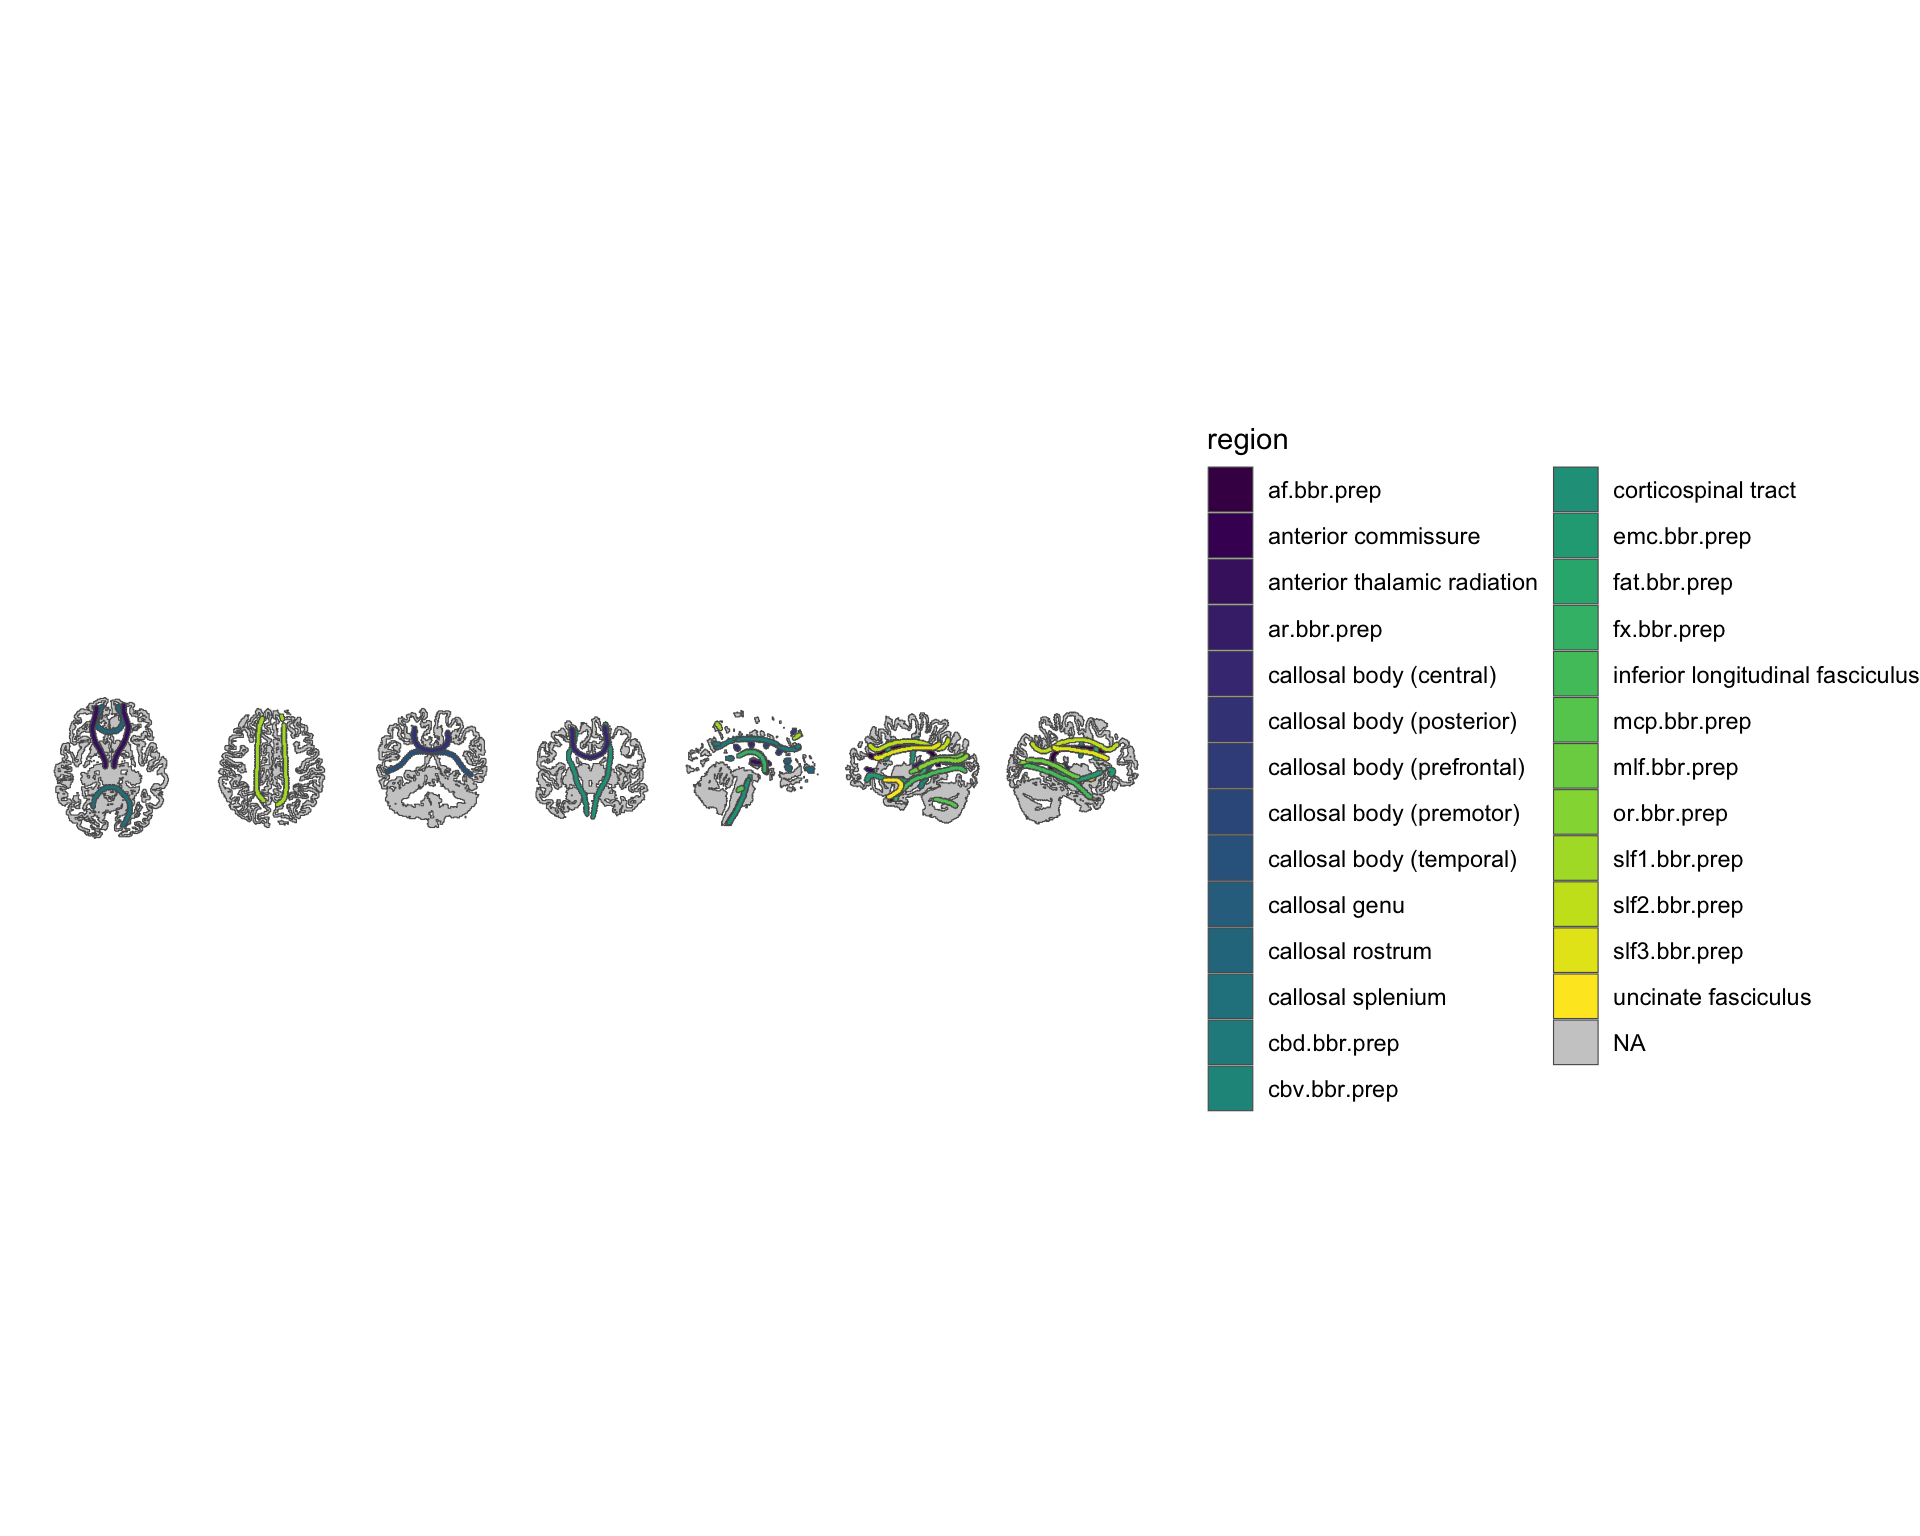
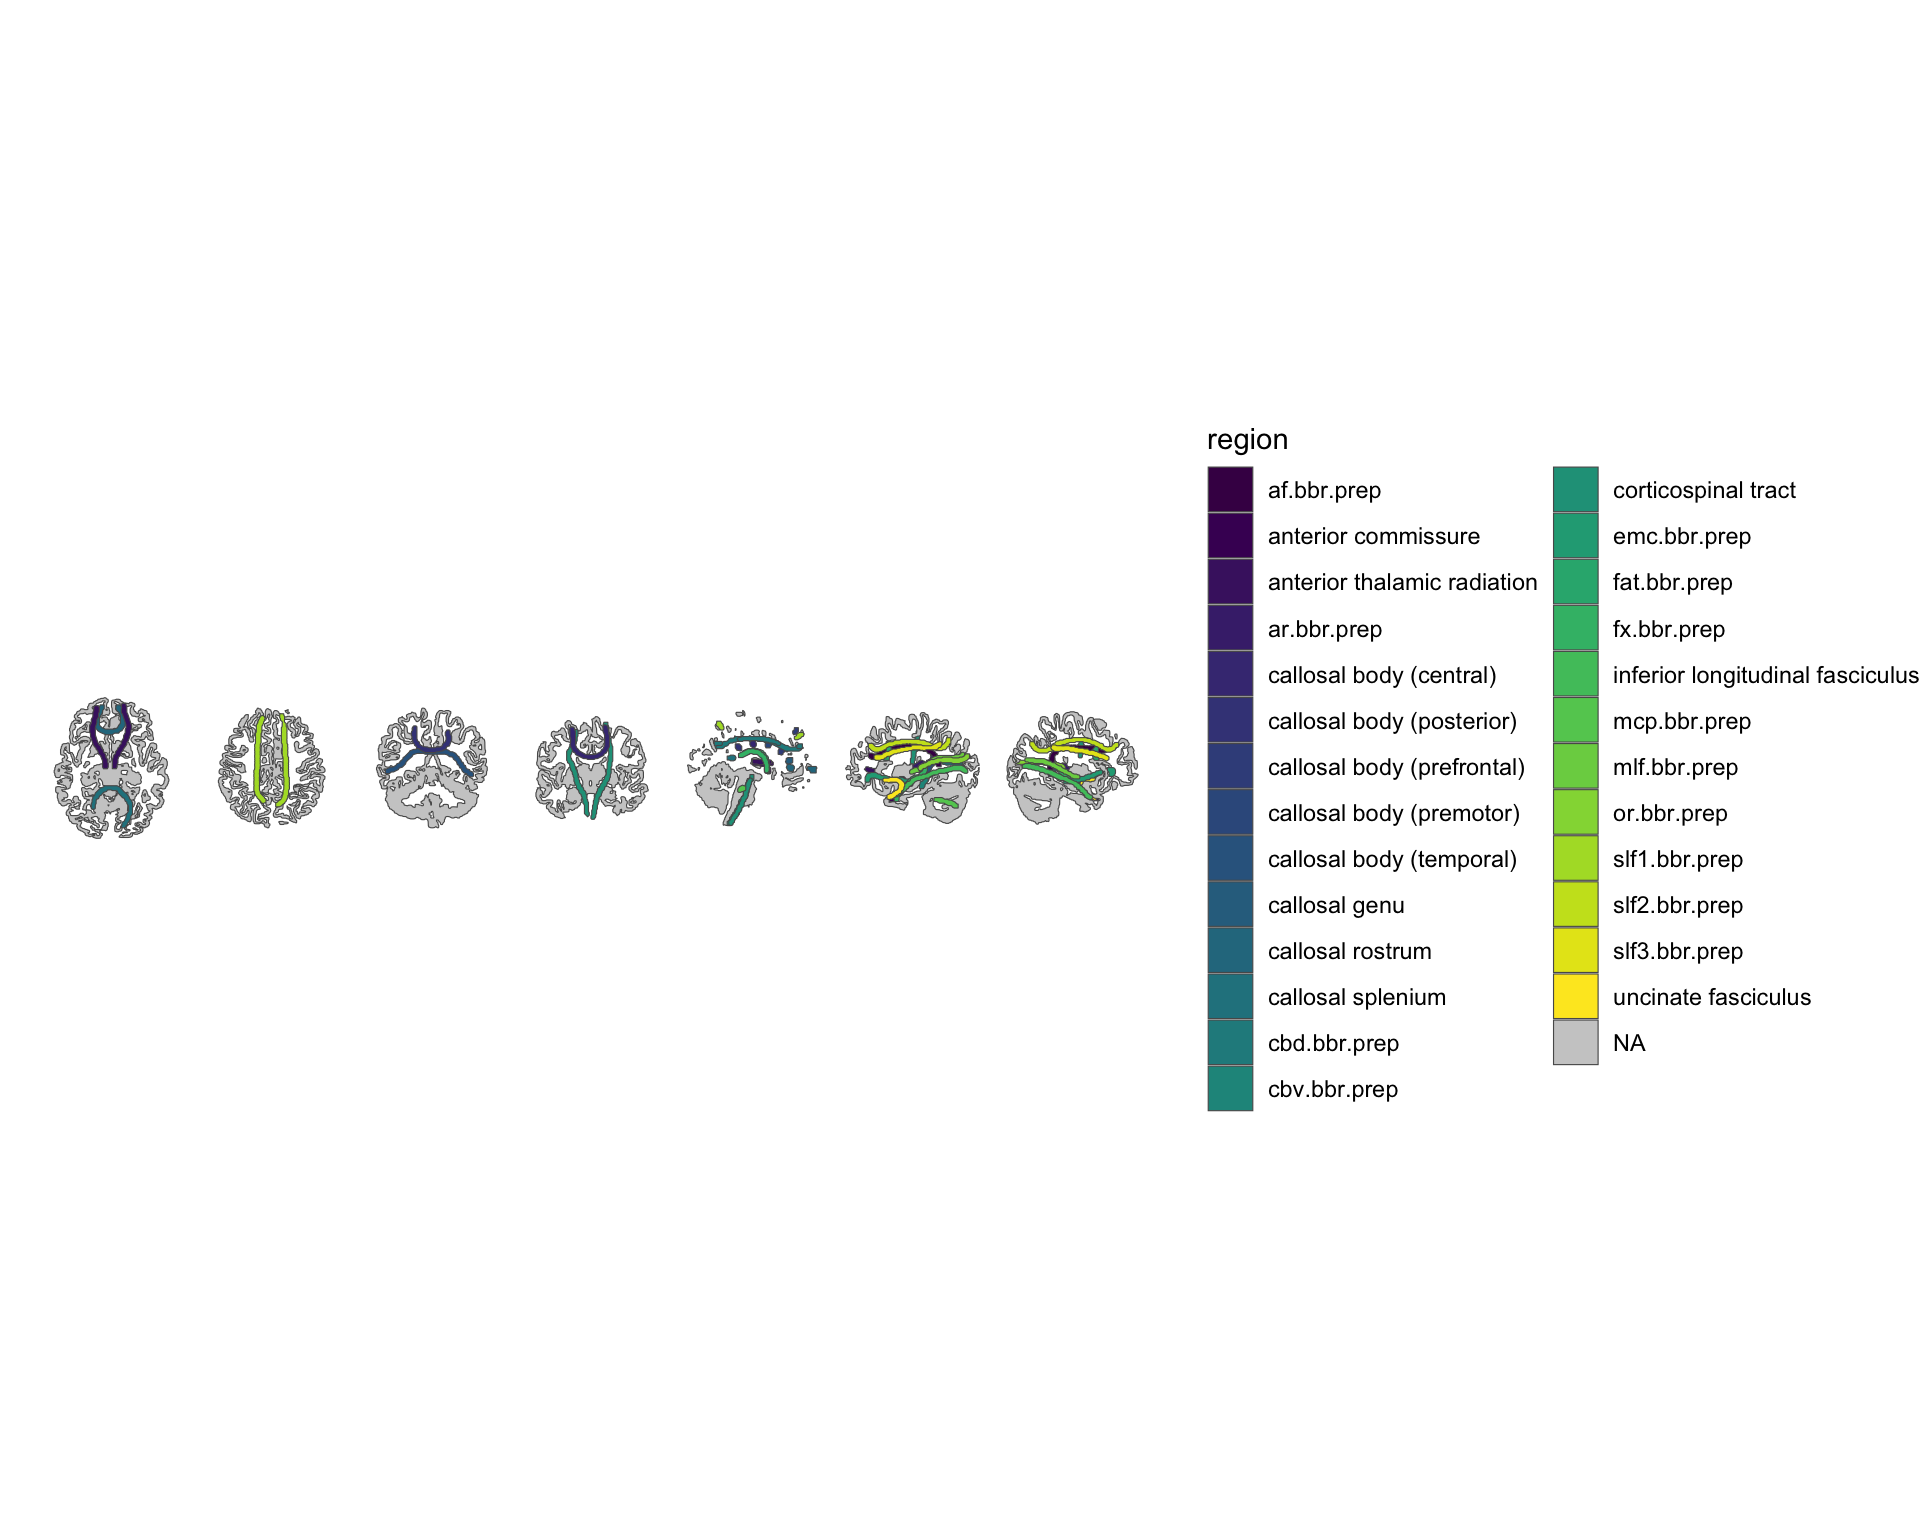
docs: cover geometry tidying in the subcortical and tract tutorials
The cortical, label and cerebellar tutorials show the atlas before and after
atlas_simplify() and atlas_smooth() with the vertex counts beside them. The
subcortical and tract tutorials showed only subtraction -- regions, views and
fragments removed -- and never mentioned that the geometry can be tidied at
all, or what it costs.

Both now do, and both make the point the other three do not have to: the
context silhouette and the structures need separate passes. A single pass
tuned for nuclei or tubes flattens the cortical ribbon into a blob, and
method = "chaikin" is what keeps its sulci, because the default close fills
any hole narrower than the smoothing distance. Both also show where the
vertices actually are -- the context carries most of them, 6796 of 10909 for
aseg and 18673 of 26545 for tracula -- and that smoothing puts some back
rather than removing them, so the total is read after both steps.

Also fixes rot the edit sat next to: the tract tutorial listed tube_radius,
tube_segments and n_points as arguments of create_tract_from_tractography().

Both tutorials were re-knitted against FreeSurfer 7.4.1, so the committed
pages carry real numbers and figures rather than hand-edited ones.

Changed region(s): [[0.2812, 0.4688, 0.5938, 0.5312], [0.125, 0.4688, 0.25, 0.5312], [0.0312, 0.4688, 0.0938, 0.5625]]

diff --git a/NEWS.md b/NEWS.md
@@ -1,3 +1,24 @@
+# ggseg.extra 1.9.9.9073
+
+## User-facing changes
+
+### Minor changes
+
+- The subcortical and tract tutorials now cover tidying the geometry, which
+  only the cortical, label and cerebellar ones did. Both show `count_vertices()`
+  before and after `atlas_simplify()` and `atlas_smooth()`, and both make the
+  point the other tutorials do not have to: the context silhouette and the
+  structures need **separate** passes. A single pass tuned for nuclei or tubes
+  flattens the cortical ribbon into a blob, and `method = "chaikin"` is what
+  keeps its sulci, because the default `close` fills any hole narrower than the
+  smoothing distance. Both tutorials also show that the context carries most of
+  the vertices, and that smoothing puts some back rather than removing them.
+
+- The tract tutorial's key-parameter list presented `tube_radius`,
+  `tube_segments` and `n_points` as arguments of
+  `create_tract_from_tractography()`. #253 moved them into `tube_opts`, so the
+  list now says so and shows the call.
+
 # ggseg.extra 1.9.9.9072
 
 ## Developer-facing changes
